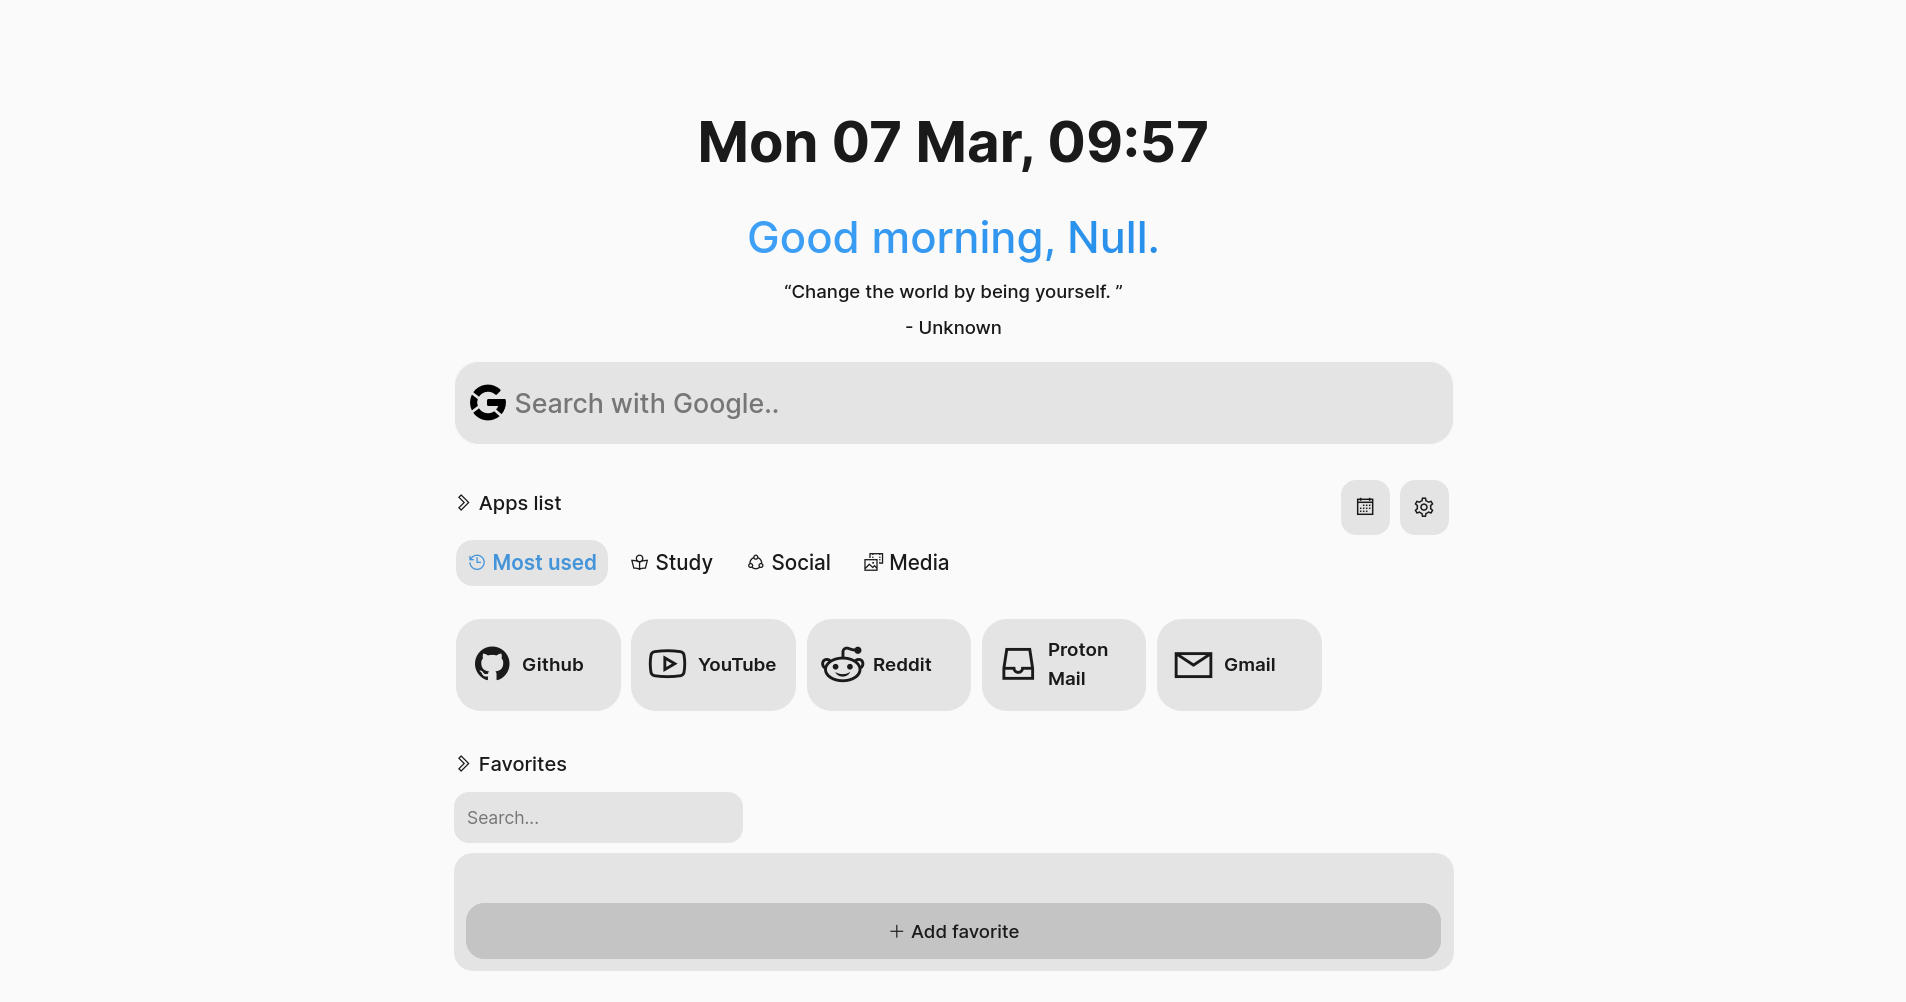
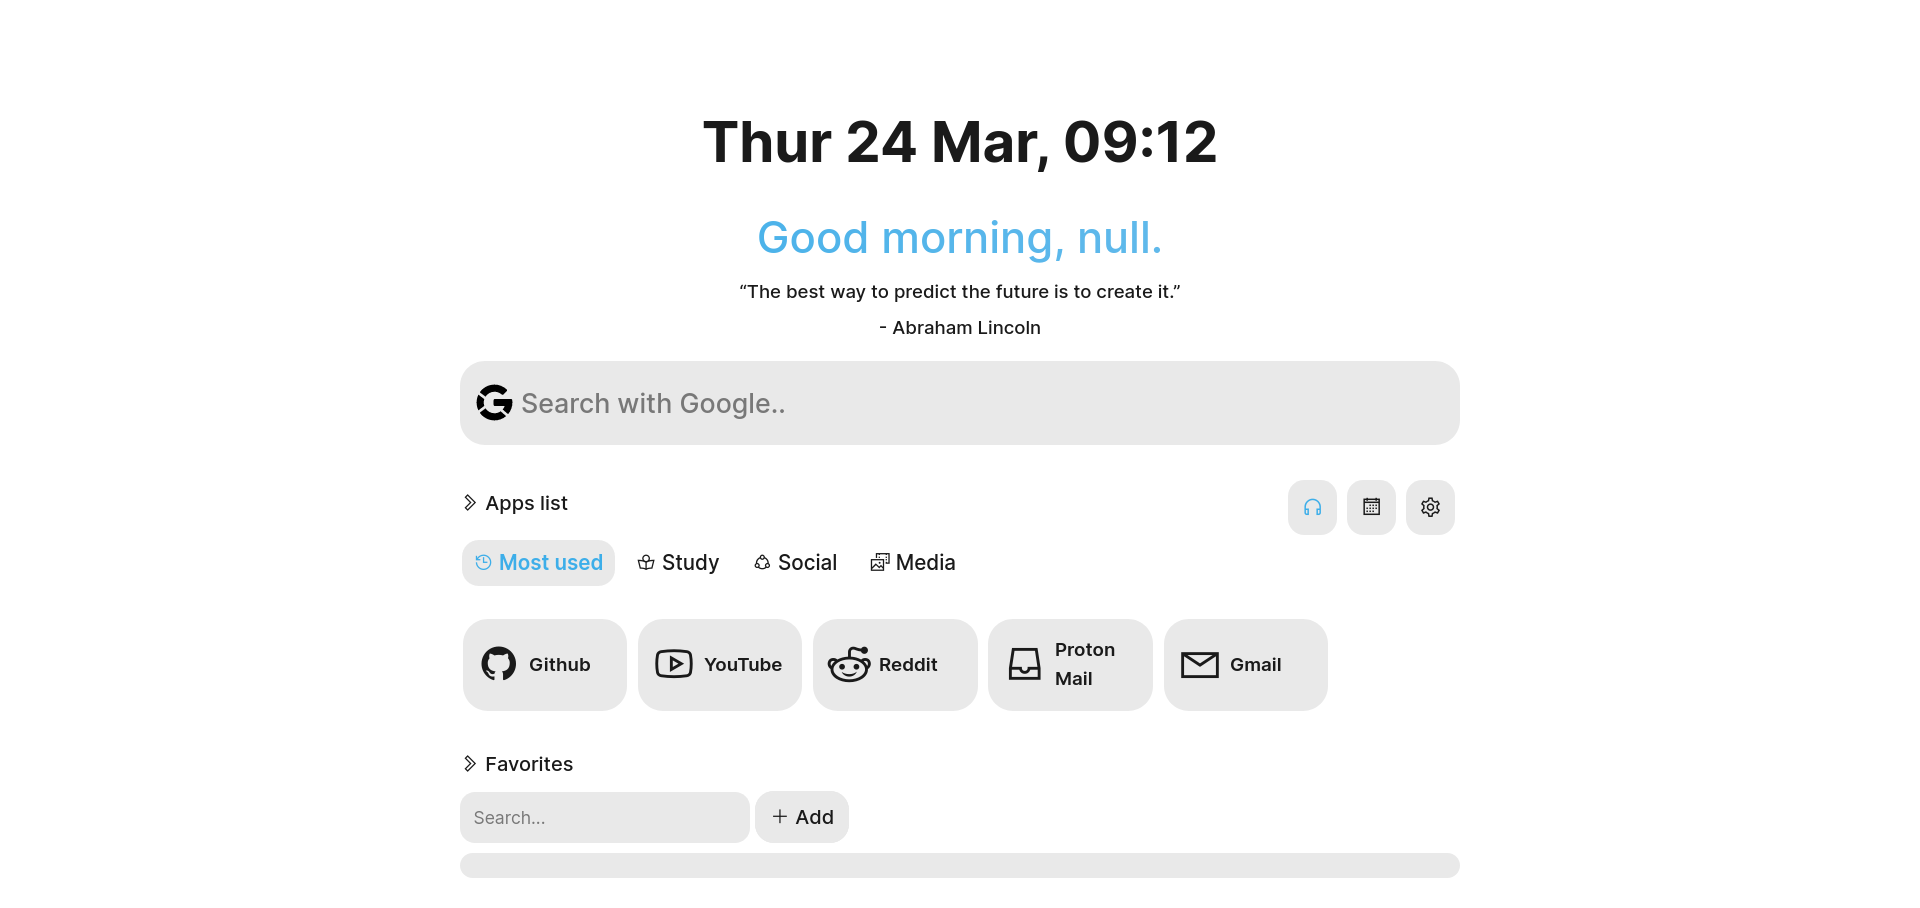
Various improvements and bug fixes
* Fix a issues with kbd margin.
* Removed app scaling on mobile devices to prevent issues.
* Fix a bug that prevent settings from scrolling
* Fix settings tab position.
* Tweak slide-up-fade-in animation inside settings.
* Slight tweak to settings-background
* Removed scale on socials.
* Added new screenshot for refreshed Saturn light theme.
* Redesign and tweaked Saturn light theme.
* Added more k-shortcuts.
* Removed dynamic apps for now [Pushed back to 6]

diff --git a/css/themes.css b/css/themes.css
@@ -1,45 +1,53 @@
 /* Saturn's theme engine v3. */
 
-/* Default Light theme [New]  */
+/* Default Light theme [New] - v2.0 */
 .light {
   --sat-heading: #1a1a1a; /* Settings header, settings options title, app list title, favorites title, favorites title */
   --sat-ids: #1a1a1a; /* Every icon and text apart from links and above. */
-  --sat-bg: #fafafa; /* Main background */
-  --sat-bg-borders: #fafafa; /* Same as background color, but used inside of settings-button and app */
-  --sat-search-shortcuts: #e4e4e4; /* Favorites, app list & search, inputs. */
+  --sat-bg: rgb(255, 255, 255); /* Main background */
+  --sat-bg-borders: rgb(
+    255,
+    255,
+    255
+  ); /* Same as background color, but used inside of settings-button and app */
+  --sat-search-shortcuts: rgb(233, 233, 233); /* Favorites, app list & search, inputs. */
   --sat-links: #1a1a1a; /* Links and stuff */
-  --sat-setting-bg-color: #eeeeee; /* Settings background color */
-  --sat-setting-bg-effect: #dddddddc; /* Settings options background color */
+  --sat-setting-bg-color: rgb(239, 240, 241); /* Settings background color */
+  --sat-setting-bg-effect: rgb(
+    228,
+    228,
+    228
+  ); /* Settings options background color */
   --sat-input-hover: #b1b1b1;
   --sat-search-bar-focus: #999999;
   --sat-tooltip-bg: #c0c0c0; /* Tooltip background */
   --default-font: "Inter", sans-serif;
   --sat-border-radius: 15px;
-  --gudmrning-txt: linear-gradient(to right, #4facfe 0%, #1783e2 100%);
-  --sat-accent-color1: hsl(208, 67%, 56%);
-  --sat-accent-color-lighter: hsla(208, 67%, 56%, 0.63);
-  --moreapps-hovering-clr: hsl(208, 67%, 56%);
-  --favorites-hover: #c4c4c4;
-  --switch-color-bg-new: #919191;
+  --gudmrning-txt: linear-gradient(
+    to right,
+    rgb(61, 174, 233) 0%,
+    #6fbeec 100%
+  );
+  --sat-accent-color1: rgb(61, 174, 233);
+  --sat-accent-color-lighter: #96c9e6;
+  --moreapps-hovering-clr: rgb(61, 174, 233);
+  --favorites-hover: #dbdbdb;
+  --switch-color-bg-new: #aaaaaa;
   --for-white: #ffffff;
   --settings-warning-bg: rgba(247, 247, 1, 0.322);
-  --add-link-border: rgb(209, 209, 209); /* Favorite input border color */
+  --add-link-border: rgb(239, 240, 241); /* Favorite input border color */
   --delete-warning-bg: #d75352; /* Favorite delete button color */
   --delete-warning-border: #d75252a2;
   --switch-color-bg-after: #000000;
-  --switch-color-bg: #adadad;
+  --switch-color-bg: rgb(239, 240, 241);
   --theme-container: rgb(
     206,
     206,
     206
   ); /* Used by the contains that contain themes icons and text. */
-  --settings-button-outline: #bbbbbb; /* The outline color on the open settings button */
+  --settings-button-outline: #d4d4d4; /* The outline color on the open settings button */
   --new-search-bg-hover-effect: rgb(218, 218, 218);
-  --lighter-color: rgb(
-    196,
-    196,
-    196
-  ); /* Every that needs a light background color */
+  --lighter-color: rgb(214, 214, 214); /* Every that needs a light background color */
   --close-button-color: #fff;
 
   /* Multiple transition speeds */

diff --git a/js/render.js b/js/render.js
@@ -209,13 +209,22 @@ const kShortcuts = (ks) => {
           <div id="tab-5" class="tab-content">
             <div class="settings-background">
               <h2>K-Shortcuts</h2>
-              <p>
+              <p>This menu will get a full design once my exams are over, for now you can use the following shortcuts:</p>
+           <!--   <p>
                 K-Shortcuts allows you to use your keyboard to do things, saving
                 you time and effort.
-              </p>
+              </p> -->
               <h4>While on the home screen:</h4>
               <br />
-              Press <kbd>Esc</kbd> to open and close settings.
+              Press <kbd>Shift</kbd> + <kbd>A</kbd> to open settings menu.
+              <br/>
+              <h4>While anywhere:</h4>
+              <br />
+              Press <kbd>Ctrl</kbd> + <kbd>Z</kbd> to open add favorites menu.
+              <br/>
+              <br/>
+              Press on <kbd>Esc</kbd> to close the both settings and add favorites menu.
+              <br/>
             </div>
           </div>`);
 };
@@ -259,49 +268,11 @@ const favIcons = (fav) => {
           </div>`);
 };
 
-// const customAppsList = (cu) => {
-//   $(cu).append(`<div id="app-5" class="app-content">
-//           <div class="popup">
-//             <div id="apps">
-//             <p> Loaded from server.json </p>
-//               <a href="https://github.com">
-//                 <div class="app">
-//                   <i class="lab la-github"></i>
-//                   <span>Github</span>
-//                 </div></a
-//               >
-//               <a href="https://youtube.com">
-//                 <div class="app">
-//                   <span>YouTube</span>
-//                   <i class="lab la-youtube"></i></div
-//               ></a>
-//               <a href="https://reddit.com">
-//                 <div class="app">
-//                   <span>Reddit</span>
-//                   <i class="lab la-reddit"></i></div
-//               ></a>
-//               <a href="https://mail.protonmail.com">
-//                 <div class="app">
-//                   <span>Proton Mail </span>
-//                   <i class="las la-inbox"></i></div
-//               ></a>
-
-//               <a href="https://mail.google.com">
-//                 <div class="app">
-//                   <span>Gmail</span>
-//                   <i class="las la-envelope"></i></div
-//               ></a>
-//             </div>
-//           </div>
-//         </div>`);
-// };
-
 const render_in_js = (x, z, ks, cu) => {
   let apps_list = $("#apps_list");
   let setting_about = $("#setting_about");
   let kshortcuts = $("#k_shortcuts");
   let fav_icons = $("#fav_icons");
-  // let custom_apps_list = $("#custom_apps_list");
 
   // pls dont break
   loader = setTimeout(function () {
@@ -309,7 +280,6 @@ const render_in_js = (x, z, ks, cu) => {
     settingAbout(setting_about);
     kShortcuts(kshortcuts);
     favIcons(fav_icons);
-    // customAppsList(custom_apps_list);
   });
 };
 

diff --git a/css/styles.css b/css/styles.css
@@ -116,9 +116,9 @@ v3 CSS Main.Core
   padding-bottom: 20px;
   width: 77rem;
   height: 35rem;
-  overflow-y: scroll;
   border-radius: 20px;
   overflow-y: auto;
+  box-shadow: 0px 0px 20px rgba(0, 0, 0, 0.37);
 }
 
 .show-modal {
@@ -224,7 +224,6 @@ ul.tabs li {
   font-weight: 500;
   color: var(--sat-ids);
   padding: 10px 35px;
-  margin: 5px;
   margin-left: 10px;
   border-radius: var(--sat-border-radius);
   border-top-left-radius: 1px;
@@ -234,7 +233,6 @@ ul.tabs li {
 ul.tabs li:hover {
   color: var(--sat-ids);
   background: var(--sat-setting-bg-effect);
-  transition: 100ms ease-in-out;
 }
 
 ul.tabs li.current {
@@ -258,7 +256,7 @@ ul.tabs li {
 }
 .tab-content {
   display: none;
-  animation: slide-up-fade-in 150ms;
+  animation: slide-up-fade-in 135ms;
 }
 
 .tab-content h4 i {
@@ -344,7 +342,7 @@ ul.tabs li {
 
 .settings-background {
   margin: 10px;
-  padding: 10px;
+  padding: 11px;
   background: var(--sat-setting-bg-effect);
   border: 1px solid transparent;
 }
@@ -576,6 +574,7 @@ ul.apps-category li.current {
 .tabs {
   font-size: 16px;
   margin: -10px;
+  margin-top: -5px;
   position: fixed; /* Fixed Sidebar (stay in place on scroll) */
   z-index: 1; /* Stay on top */
   top: 0; /* Stay at the top */
@@ -587,7 +586,7 @@ ul.apps-category li.current {
 
 .tab-content {
   margin-left: 180px; /* Same as the width of the sidebar */
-  margin-top: 30px;
+  margin-top: 31px;
   padding: 0px 10px;
 }
 /* 
@@ -607,14 +606,15 @@ ul.apps-category li.current {
 }
 
 .socials .app:hover {
+  transition: var(--transition-speed-default);
   border: 1px solid transparent;
-  transform: scale(0.96); /* Equal to scaleX(0.7) scaleY(0.7) */
 }
 /* 
 ========
 + Favorite Modal +
 ========
 */
+
 .favModal {
   background-color: #15181f42;
   display: none; /* Hidden by default */

diff --git a/index.html b/index.html
@@ -116,9 +116,6 @@
           <li class="tab-link" data-tab="app-4">
             <i class="las la-photo-video"></i> Media
           </li>
-          <li class="tab-link cloud_apps" data-tab="app-5">
-            <i class="las la-cloud"></i> Cloud
-          </li>
         </ul>
         <div id="apps_list"></div>
         <div id="custom_apps_list"></div>
@@ -326,10 +323,6 @@
                   />
                 </details>
               </div>
-              <div class="settings-background">
-                <h3><i class="las la-cloud"></i> Cloud apps</h3>
-                <p>Cloud apps are loaded from the dynamic-apps.js file found <a href="">here</a></p>
-              </div>
               <p style="text-align: center; font-weight: 500; font-size: 13px">
                 <a
                   href="https://github.com/mraif13/Saturn-startpage/issues/new"
@@ -513,8 +506,6 @@
       <script type="text/javascript" src="js/quote.js"></script>
       <!-- Quote JS - File -->
       <script type="text/javascript" src="js/layout.js"></script>
-      <!-- Layout JS - File -->
-      <script type="text/javascript" src="/js/dynamic-apps.js"></script>
     </main>
   </body>
 </html>

diff --git a/js/favorites.js b/js/favorites.js
@@ -101,8 +101,8 @@ $(document).ready(function () {
 
 var opnSetting = document.querySelector(".close-button");
 document.body.addEventListener("keydown", function () {
-  if (event.keyCode == 27) {
-    // Esc key
+  if (event.keyCode == 65 && event.shiftKey) {
+    // Shift + S key
     opnSetting.click();
   }
 });
@@ -113,16 +113,23 @@ document.body.addEventListener("keydown", function () {
 // ========
 //
 
+// Ctrl and F open click favBtn
+document.addEventListener("keydown", function (e) {
+  if (e.ctrlKey && e.keyCode == 90) {
+    document.getElementById("favBtn").click();
+  }
+});
+
 // Get the favModal
 var favModal = document.getElementById("favModal");
 
 // Get the button that opens the favModal
 var btn = document.getElementById("favBtn");
-
 // Get the <span> element that closes the favModal
 var span = document.getElementsByClassName("cancel-fav-btn")[0];
 
 // When the user clicks on the button, open the favModal
+
 btn.onclick = function () {
   favModal.style.display = "block";
 };

diff --git a/js/index.js b/js/index.js
@@ -178,6 +178,15 @@ $(document).ready(function () {
   });
 });
 
+// Esc to close settings and favModal
+$(document).keyup(function (e) {
+  if (e.keyCode == 27) {
+    $(".settings_modal").removeClass("show-modal");
+    // click on cancel-fav-btn
+    $(".cancel-fav-btn").click();
+  }
+});
+
 //
 // ========
 // + App list category +
@@ -325,6 +334,7 @@ highcontrast.onclick = () => {
   body.classList.replace("nord", "highcontrast");
   localStorage.setItem("theme", "highcontrast");
 };
+
 //
 // ========
 // + *New* Username feature +
@@ -354,6 +364,3 @@ $(document).ready(function () {
     }
   });
 });
-
-// check if github.com is online and display a green dot 
-// if it is, otherwise display a red dot

diff --git a/css/core.css b/css/core.css
@@ -640,6 +640,7 @@ kbd {
   background: var(--lighter-color);
   color: var(--sat-ids);
   padding: 2px 10px;
+  margin: -1px;
   text-align: center;
   font-size: 1rem;
   border-radius: 7px;
@@ -1007,12 +1008,6 @@ use the correct border radius == */
   .fav-content {
     width: 23rem !important;
     height: 36rem !important;
-  }
-  .app {
-    display: inline-block;
-    margin: 5px 2px;
-    padding: 12px 46px !important;
-    border-radius: 20px !important;
   }
   .settings-title {
     font-size: 1.2rem !important;
